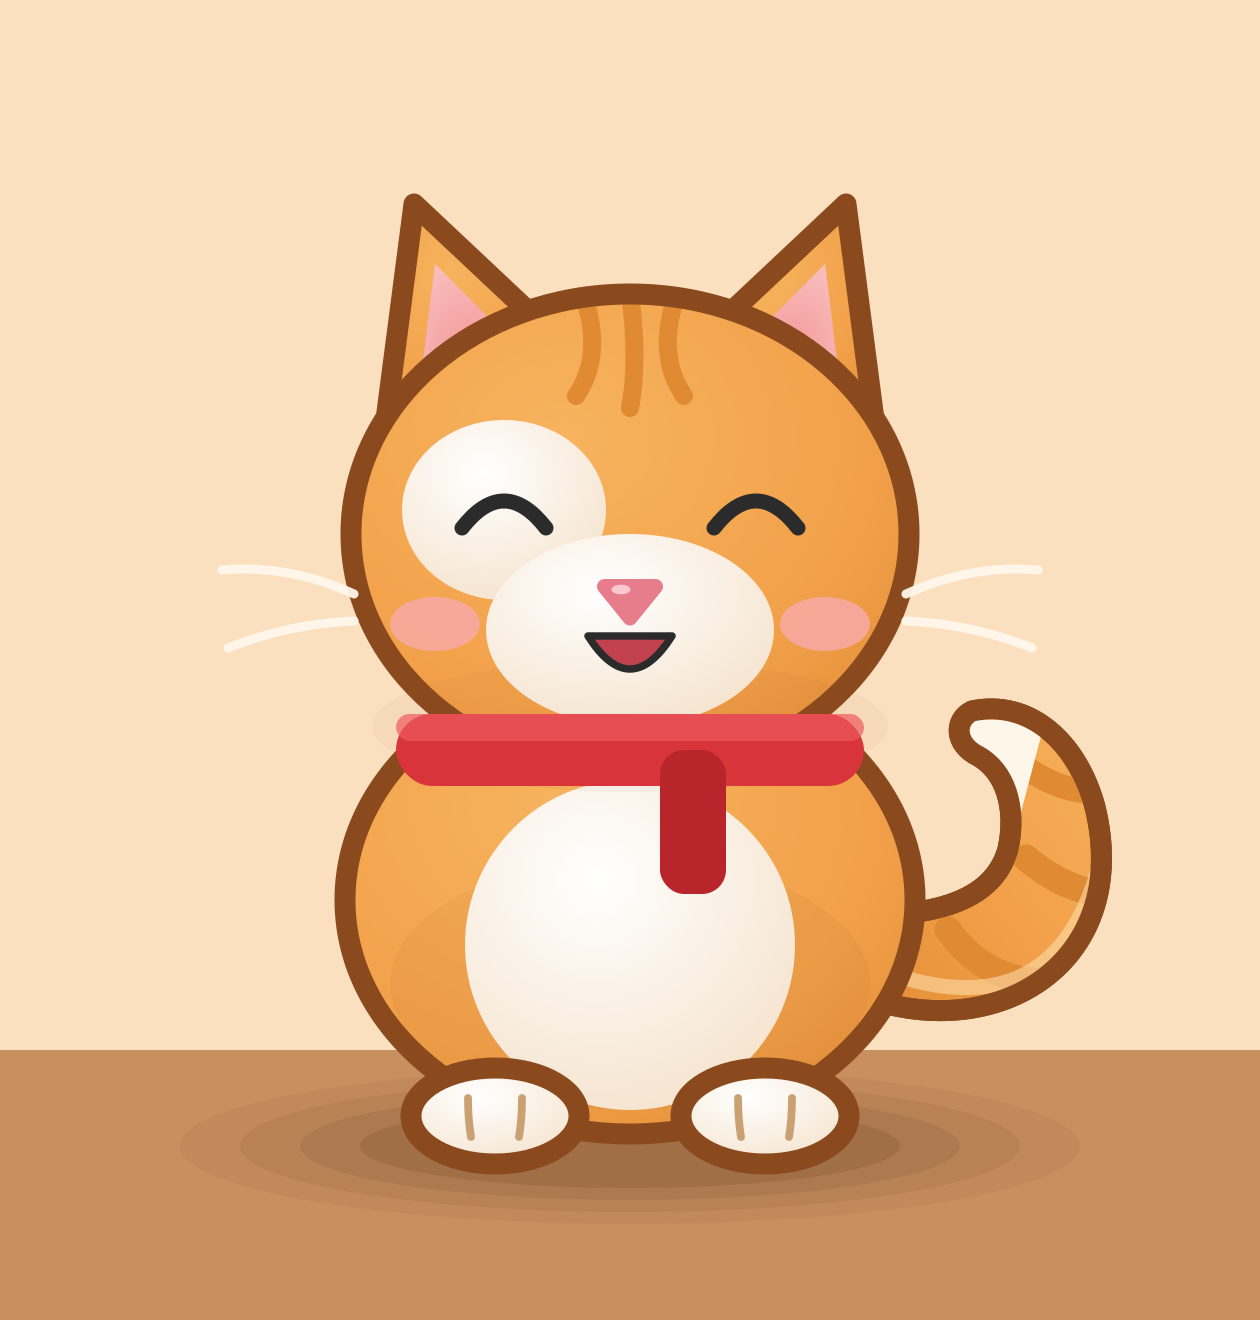
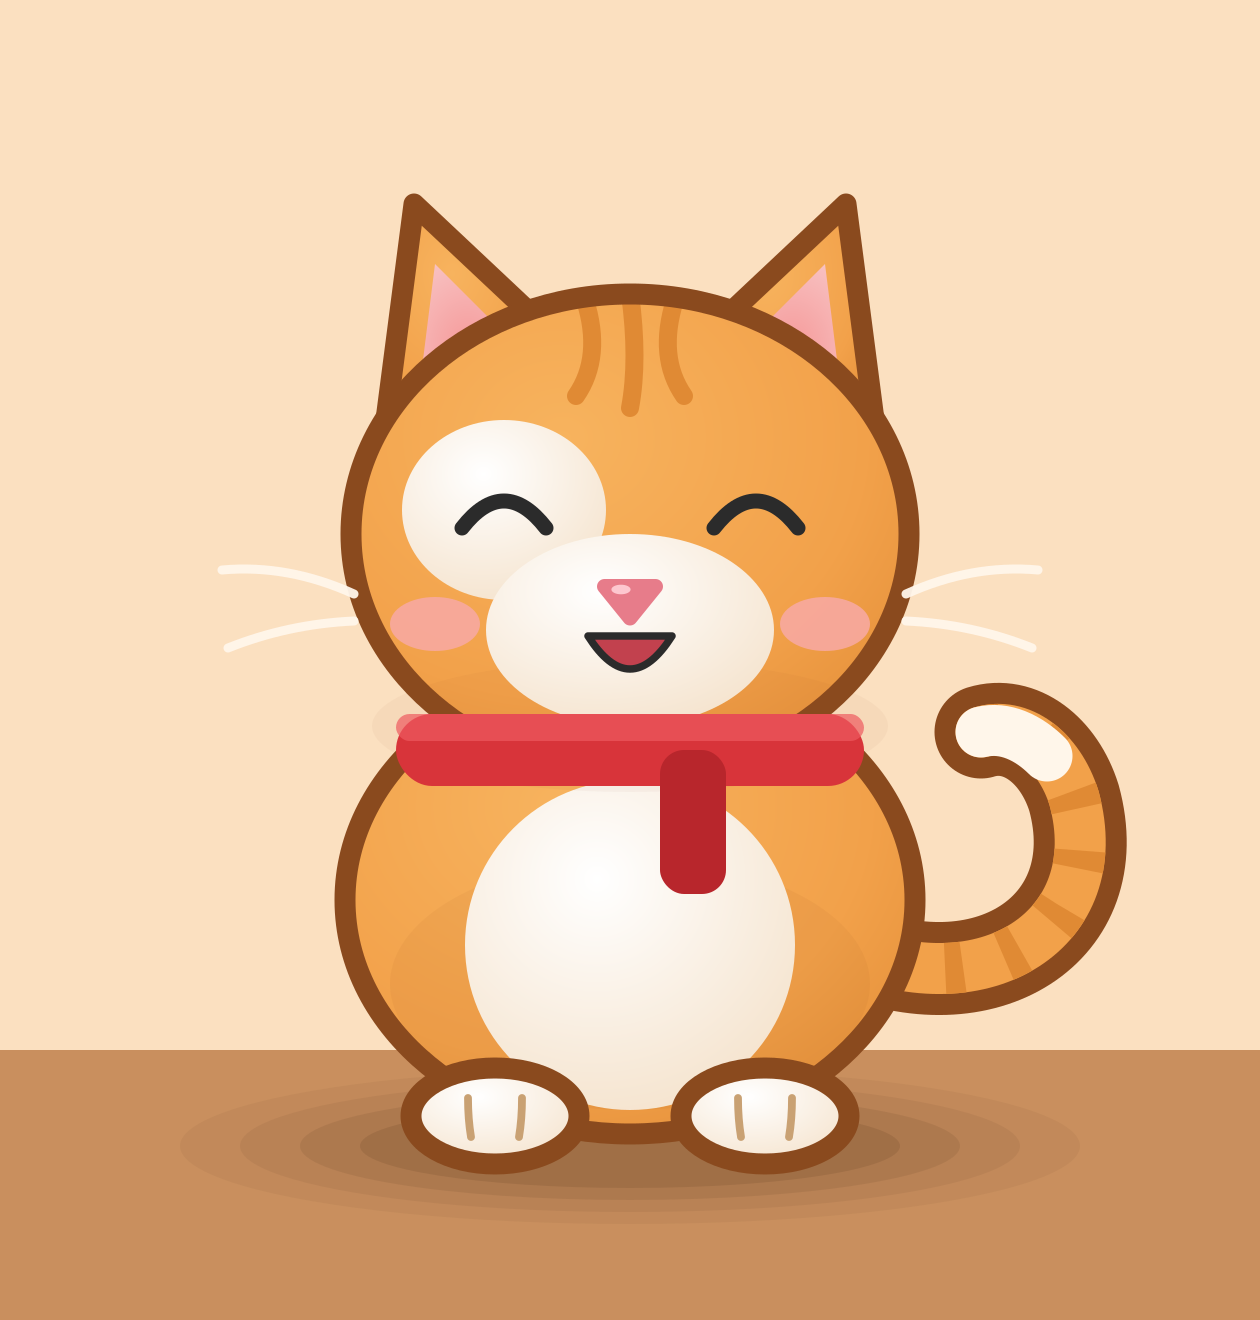
Mochi B: cauda bem mais fina, de largura uniforme
Claude-Session: https://claude.ai/code/session_01FLvpF3WqtYzmgJK9KhnAb9

Changed region(s): [[0.7119, 0.497, 0.8976, 0.7765]]

diff --git a/codigo/mochi_kit2.py b/codigo/mochi_kit2.py
@@ -31,19 +31,17 @@ def _shadow():
 
 
 def _tail(s, o):
-    body = ("M262 320 C310 341 358 312 345 259 C339 237 323 223 304 227 "
-            "C298 230 298 238 306 242 C315 247 319 259 316 273 C311 291 290 296 262 295 Z")
-    return f"""<defs><clipPath id="tc"><path d="{body}"/></clipPath>
-<linearGradient id="tg" x1="0" y1="1" x2="1" y2="0"><stop offset="0" stop-color="{s['c3']}"/><stop offset="0.5" stop-color="{s['c2']}"/><stop offset="1" stop-color="{s['c1']}"/></linearGradient></defs>
-<path d="{body}" fill="url(#tg)" {o}/>
-<g clip-path="url(#tc)">
-<path d="M296 300 Q312 322 340 316" fill="none" stroke="{s['c3']}" stroke-width="9" stroke-linecap="round"/>
-<path d="M322 276 Q346 296 368 282" fill="none" stroke="{s['c3']}" stroke-width="9" stroke-linecap="round"/>
-<path d="M322 246 Q346 262 366 246" fill="none" stroke="{s['c3']}" stroke-width="8" stroke-linecap="round"/>
-<path d="M296 226 Q312 214 330 224 L320 262 L292 240 Z" fill="#FFF6EA"/>
-<path d="M270 312 Q330 336 346 280" fill="none" stroke="#FFE2B0" stroke-width="5" stroke-linecap="round" opacity="0.55"/>
-</g>
-<path d="{body}" fill="none" stroke="{s['outline'] or 'none'}" stroke-width="{s['ow']}" stroke-linejoin="round"/>"""
+    """Cauda fina de largura uniforme: contorno, miolo, listras, ponta creme e brilho."""
+    W = 17
+    d = "M262 306 C308 326 350 300 338 256 C333 240 320 230 307 234"
+    tip = "M329 242 C323 236 315 232 307 234"
+    out = ""
+    if s["outline"]:
+        out += f'<path d="{d}" fill="none" stroke="{s["outline"]}" stroke-width="{W + 2 * s["ow"]}" stroke-linecap="round" stroke-linejoin="round"/>'
+    out += f'<path d="{d}" fill="none" stroke="{s["c2"]}" stroke-width="{W}" stroke-linecap="round"/>'
+    out += f'<path d="{d}" fill="none" stroke="{s["c3"]}" stroke-width="{W}" stroke-dasharray="6 14" stroke-dashoffset="-14"/>'
+    out += f'<path d="{tip}" fill="none" stroke="#FFF6EA" stroke-width="{W}" stroke-linecap="round"/>'
+    return out
 
 
 def mochi2(style="A", expr="normal", blink=False, headphones=False, mouth_open=0.0):
